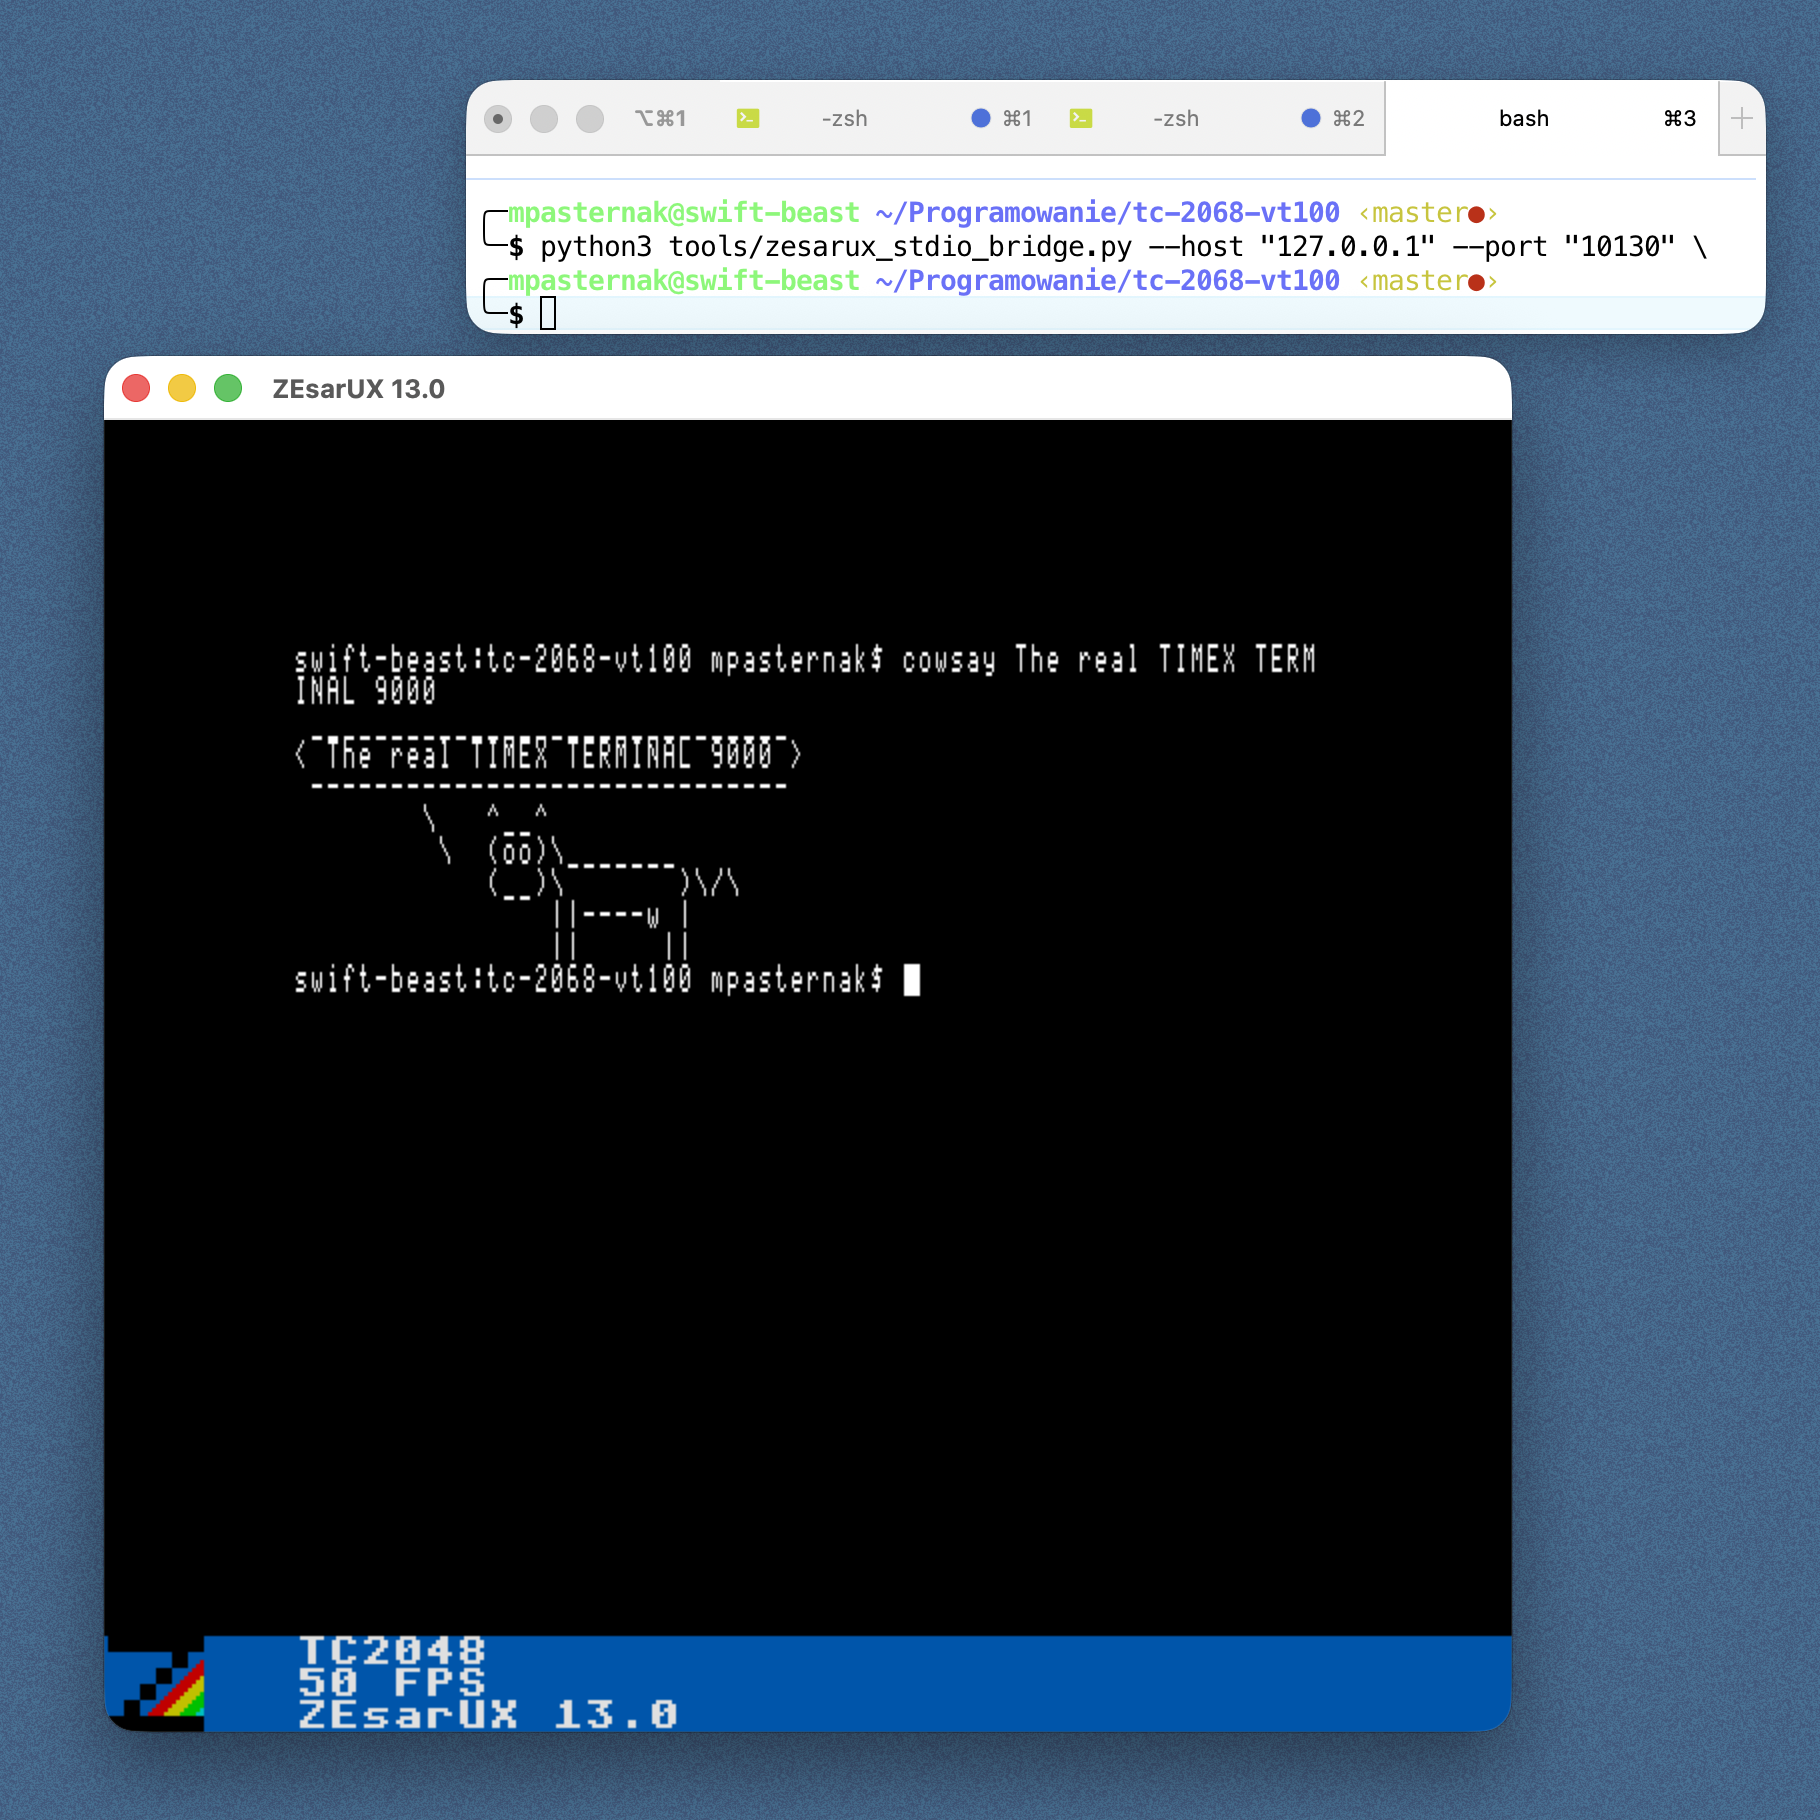
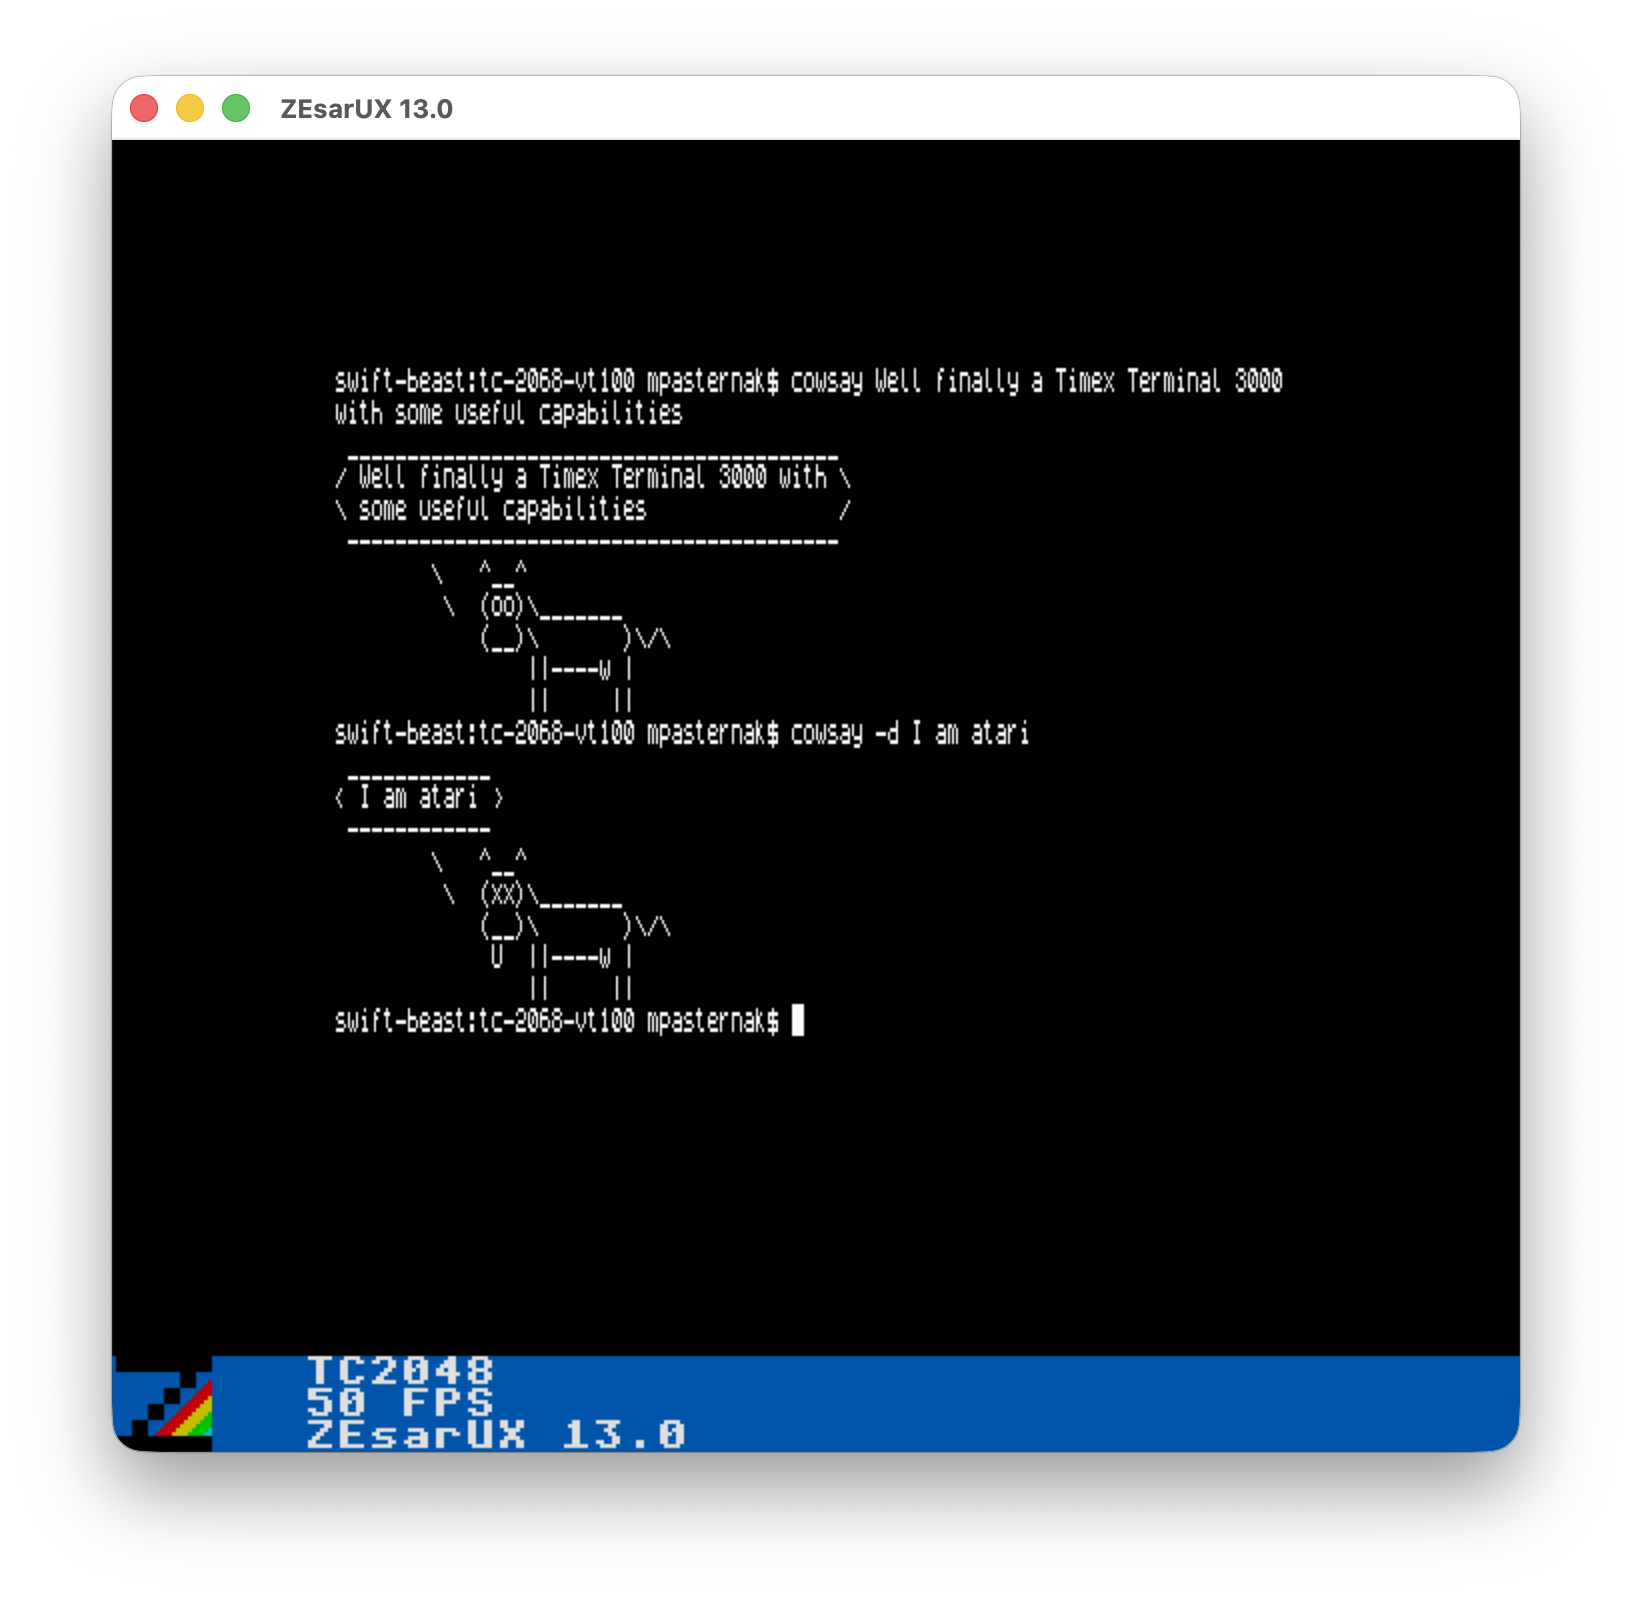
docs: add Rogue screenshot to README intro, refresh cowsay example

diff --git a/README.md b/README.md
@@ -13,6 +13,11 @@ Attaching it to a real shell is [issue #1](https://github.com/dtz-labs/timex-vt1
 VT102-style terminal for Timex 2048/2068-class machines using Timex hi-res
 512x192 video for an 80x24 text display.
 
+![Rogue played over the Timex VT102 terminal in ZEsarUX](docs/rogue.png)
+
+Above: the original Rogue running on a Unix host, played through the Timex
+terminal in ZEsarUX.
+
 The normal emulator workflow uses ZEsarUX plus its ZRCP remote protocol. The
 bridge can either connect the Timex terminal to a real Unix PTY/shell, or to
 local stdin/stdout for testing.
